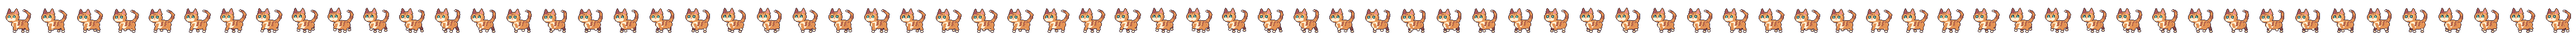
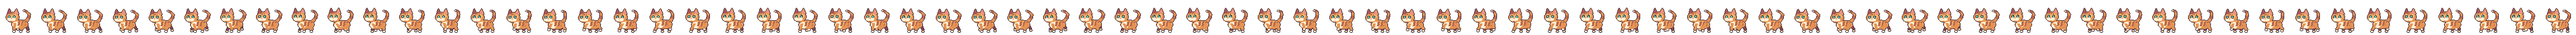
Match tabby travel to its planted paw stride

Changed region(s): [[0.0, 0.6875, 1.0, 0.9375]]

diff --git a/client/calm-mode.jsx b/client/calm-mode.jsx
@@ -4,6 +4,8 @@ import {catPerch,createCatSound,readCalmMode,saveCalmMode} from '/js/calm-cat.js
 
 // Each strip is rendered at 24 frames per second on a 64px pixel grid.
 const framesByPose={idle:144,stretching:48,walk:72,turn:12,laying:36,sleeping1:144,waking:48,meow:58,nuzzle:72,grooming:96,curious:60};
+// Three strides at 22 source pixels each, matching render-calm-cat.py.
+const walkDistance=66;
 const routine=[['idle',2500],['walk',3000],['idle',6000],['grooming',4000],['walk',3000],['idle',8000],['curious',2500],['idle',5000],['stretching',2000],['laying',1500],['sleeping1',18000],['waking',2000]];
 function Paw(){return <svg viewBox="0 0 24 24" aria-hidden="true"><ellipse cx="5" cy="9" rx="2" ry="2.8" transform="rotate(-25 5 9)"/><ellipse cx="10" cy="5.5" rx="2" ry="2.8"/><ellipse cx="16" cy="6" rx="2" ry="2.8" transform="rotate(15 16 6)"/><ellipse cx="20" cy="11" rx="1.8" ry="2.5" transform="rotate(30 20 11)"/><path d="M6.5 17c0-2 3-5.5 5.5-5.5s5.5 3.5 5.5 5.5c0 3-3 2-5.5 2s-5.5 1-5.5-2Z"/></svg>;}
 function Speaker({on}){return <svg viewBox="0 0 24 24" aria-hidden="true"><path d="M11 4 6 8H3v8h3l5 4Z"/>{on?<path d="M15 8a6 6 0 0 1 0 8m3-11a10 10 0 0 1 0 14"/>:<path d="m16 9 5 6m0-6-5 6"/>}</svg>;}
@@ -61,7 +63,7 @@ export function CalmMode({home=false,headerHost=null}){
         const rect=support.getBoundingClientRect();
         const rail=inRoom?{left:18,right:Math.min(roomRect.width-18,small?240:360),top:roomRect.height-10}:home?{left:rect.left,right:Math.min(rect.left+(small?190:240),innerWidth-12),top:rect.top-6}:rect;
         const bounds={support:rail,width:inRoom?roomRect.width:innerWidth,height:inRoom?roomRect.height:height,size};
-        const base=catPerch(bounds),walk=catPerch({...bounds,travel});
+        const base=catPerch(bounds),walk=catPerch({...bounds,travel:travel*size/64});
         const next={...base,size,offset:walk.x-base.x,playground:inRoom};
         setPosition(previous=>previous&&Object.keys(next).every(key=>previous[key]===next[key])?previous:next);
       });
@@ -90,7 +92,7 @@ export function CalmMode({home=false,headerHost=null}){
         const direction=walkRight.current?-1:1;
         const walk=()=>{
           facingNow.current=direction;setFacing(direction);show('walk');
-          setTravel(walkRight.current?(playground?(innerWidth<=700?120:200):(innerWidth<=700?64:88)):0);
+          setTravel(walkRight.current?walkDistance:0);
           walkRight.current=!walkRight.current;
           timer=setTimeout(next,duration);
         };
@@ -111,7 +113,7 @@ export function CalmMode({home=false,headerHost=null}){
       if(poseNow.current==='walk'&&walker.current){
         const frame=walker.current.parentElement.getBoundingClientRect();
         const offset=walker.current.getBoundingClientRect().left-frame.left;
-        setTravel(offset);setPosition(value=>value?{...value,offset}:value);
+        setTravel(offset*64/frame.width);setPosition(value=>value?{...value,offset}:value);
       }
       const nuzzle=()=>{show('nuzzle');setAffection(value=>value+1);void sound.current?.pet();timer=setTimeout(settle,3000);};
       if(kind==='curious'){show('curious');timer=setTimeout(settle,2500);}

diff --git a/scripts/art/render-calm-cat.py b/scripts/art/render-calm-cat.py
@@ -420,22 +420,22 @@ def render_sitting_tabby(
     c.outline('ink')
     return c
 
+# The browser advances the cat by the same 22 sprite pixels per stride.
+def walking_paw(phase):
+    phase %= 1.0
+    stance = 0.60
+    reach = 22 * stance / 2
+    if phase < stance:
+        # Facing left: move the planted paw right relative to the body.
+        return -reach + 22 * phase, 0.0
+    swing = (phase - stance) / (1.0 - stance)
+    return reach * math.cos(math.pi * swing), -4.2 * math.sin(math.pi * swing)
+
+
 def render_walking_tabby(stride_phase, tail_wave_phase, frame_idx=0):
     """Render quadruped lateral sequence feline walk with planted feet and safe tail margins."""
     c = Canvas(64, 64)
     phi = stride_phase * math.tau
-
-    phase_nh = phi
-    phase_nf = phi + 0.25 * math.tau
-    phase_fh = phi + 0.50 * math.tau
-    phase_ff = phi + 0.75 * math.tau
-
-    def leg_motion(phase, base_x):
-        s = math.sin(phase)
-        c_val = math.cos(phase)
-        x_travel = -base_x + c_val * 4.8
-        y_lift = -abs(s) * 4.2 if s < 0 else 0.0
-        return x_travel, y_lift
 
     body_y = 44 + abs(math.sin(phi * 2.0)) * 1.0
     head_y = 31 + math.sin(phi * 2.0) * 0.8
@@ -445,13 +445,13 @@ def render_walking_tabby(stride_phase, tail_wave_phase, frame_idx=0):
     ear_sway = math.sin(frame_idx / 72.0 * math.tau * 2.0) * 0.4
 
     # 1. FAR LEGS
-    fh_dx, fh_dy = leg_motion(phase_fh, 0)
+    fh_dx, fh_dy = walking_paw(stride_phase + 0.50)
     fh_paw_x = 44 + fh_dx
     fh_paw_y = 58 + fh_dy
     c.fill_polygon([(43, body_y - 2), (47, body_y - 2), (fh_paw_x + 3, fh_paw_y - 3), (fh_paw_x, fh_paw_y - 3)], 'dark')
     c.fill_rect(fh_paw_x, fh_paw_y - 2, 4, 3, 'creamshade')
 
-    ff_dx, ff_dy = leg_motion(phase_ff, 0)
+    ff_dx, ff_dy = walking_paw(stride_phase + 0.75)
     ff_paw_x = 27 + ff_dx
     ff_paw_y = 58 + ff_dy
     c.fill_polygon([(27, body_y - 1), (31, body_y - 1), (ff_paw_x + 3, ff_paw_y - 3), (ff_paw_x, ff_paw_y - 3)], 'dark')
@@ -480,14 +480,14 @@ def render_walking_tabby(stride_phase, tail_wave_phase, frame_idx=0):
         c.fill_polygon([(sx, body_y - 6), (sx + 3, body_y - 6), (sx + 1, body_y + 3), (sx - 2, body_y + 3)], 'shade')
 
     # 4. NEAR LEGS
-    nh_dx, nh_dy = leg_motion(phase_nh, 0)
+    nh_dx, nh_dy = walking_paw(stride_phase)
     nh_paw_x = 42 + nh_dx
     nh_paw_y = 58 + nh_dy
     c.fill_polygon([(41, body_y - 3), (46, body_y - 3), (nh_paw_x + 4, nh_paw_y - 3), (nh_paw_x, nh_paw_y - 3)], 'orange')
     c.fill_rect(nh_paw_x, nh_paw_y - 2, 4, 3, 'cream')
     c.set(nh_paw_x + 2, nh_paw_y, 'creamshade')
 
-    nf_dx, nf_dy = leg_motion(phase_nf, 0)
+    nf_dx, nf_dy = walking_paw(stride_phase + 0.25)
     nf_paw_x = 24 + nf_dx
     nf_paw_y = 58 + nf_dy
     c.fill_polygon([(24, body_y - 2), (28, body_y - 2), (nf_paw_x + 4, nf_paw_y - 3), (nf_paw_x, nf_paw_y - 3)], 'orange')
@@ -852,10 +852,12 @@ def render_turning_tabby(step):
     c.draw_tail(tail_pts, tail_widths, tail_cols)
 
     # 2. FAR LEGS (Far hind, far front)
-    fh_paw_x = 39.2 * (1.0 - rot) + 35.0 * rot
-    fh_paw_y = 58.0
-    ff_paw_x = 27.0 * (1.0 - rot) + 37.0 * rot
-    ff_paw_y = 53.8 * (1.0 - rot) + 58.0 * rot
+    fh_dx, fh_dy = walking_paw(0.50)
+    ff_dx, ff_dy = walking_paw(0.75)
+    fh_paw_x = (44.0 + fh_dx) * (1.0 - rot) + 35.0 * rot
+    fh_paw_y = 58.0 + fh_dy * (1.0 - rot)
+    ff_paw_x = (27.0 + ff_dx) * (1.0 - rot) + 37.0 * rot
+    ff_paw_y = 58.0 + ff_dy * (1.0 - rot)
 
     fh_hip_x1 = 43.0 * (1.0 - rot) + 33.0 * rot
     fh_hip_x2 = 47.0 * (1.0 - rot) + 37.0 * rot
@@ -886,9 +888,9 @@ def render_turning_tabby(step):
     c.fill_ellipse(bib_x, body_y + 1.0, 6.0, 6.0 + 1.0 * rot, 'cream')
 
     # 4. NEAR LEGS (Near hind, near front)
-    nh_paw_x = 46.8 * (1.0 - rot) + 29.0 * rot
+    nh_paw_x = (42.0 + walking_paw(0.0)[0]) * (1.0 - rot) + 29.0 * rot
     nh_paw_y = 58.0
-    nf_paw_x = 24.0 * (1.0 - rot) + 27.0 * rot
+    nf_paw_x = (24.0 + walking_paw(0.25)[0]) * (1.0 - rot) + 27.0 * rot
     nf_paw_y = 58.0
 
     nh_hip_x1 = 41.0 * (1.0 - rot) + 27.0 * rot
